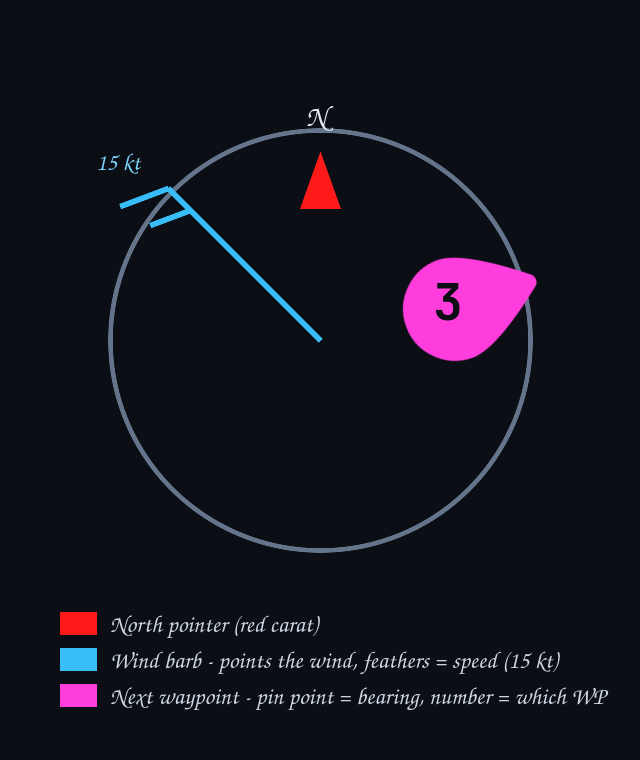
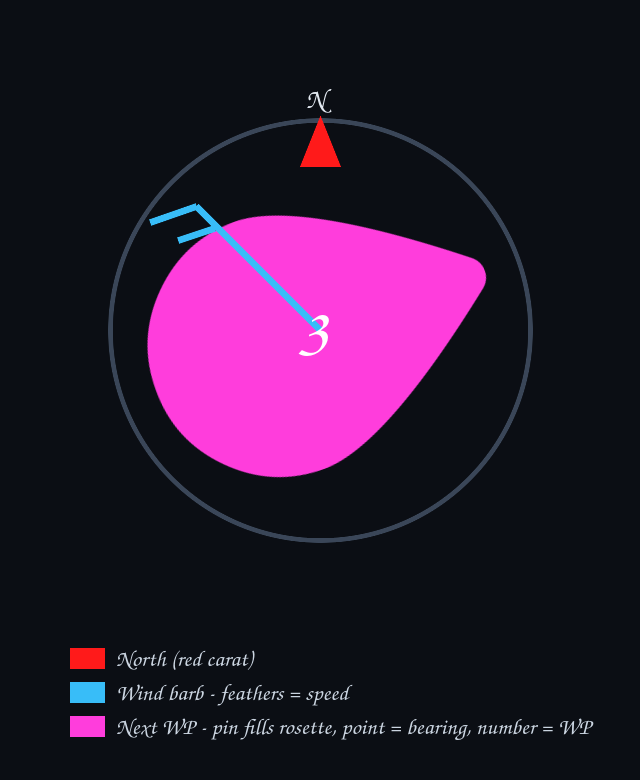
docs(backlog): compass rosette - waypoint pin fills the rosette
Per feedback: the f041 pin is sized to fill the rosette with the number centred
and the point showing the bearing; N carat + wind barb overlay on top.

Changed region(s): [[0.1562, 0.1211, 0.8438, 0.7263], [0.0938, 0.7868, 0.9688, 0.9684]]

diff --git a/docs/backlog/design-inflight-task-interactions.md b/docs/backlog/design-inflight-task-interactions.md
@@ -138,9 +138,10 @@ The compass rosette carries **three** elements, each unmistakable:
 1. **North** — the red carat.
 2. **Wind barb** — a meteorological barb (staff + feathers; feathers encode
    speed) pointing the wind, in cool blue.
-3. **Next waypoint** — the Font Awesome **`f041` map-marker pin**, rotated so its
-   **point indicates the bearing**, with the **waypoint number in the bulb**, in
-   magenta.
+3. **Next waypoint** — the Font Awesome **`f041` map-marker pin**, sized to
+   **fill the rosette**, rotated so its **point indicates the bearing**, with the
+   **waypoint number centred** in it, in magenta. (N carat + wind barb overlay on
+   top; in code the wind barb gets a thin dark outline for contrast over the pin.)
 
 ![C — compass rosette: N + wind barb + waypoint pin](assets/inflight/mockup-C-compass-rosette.png)
 